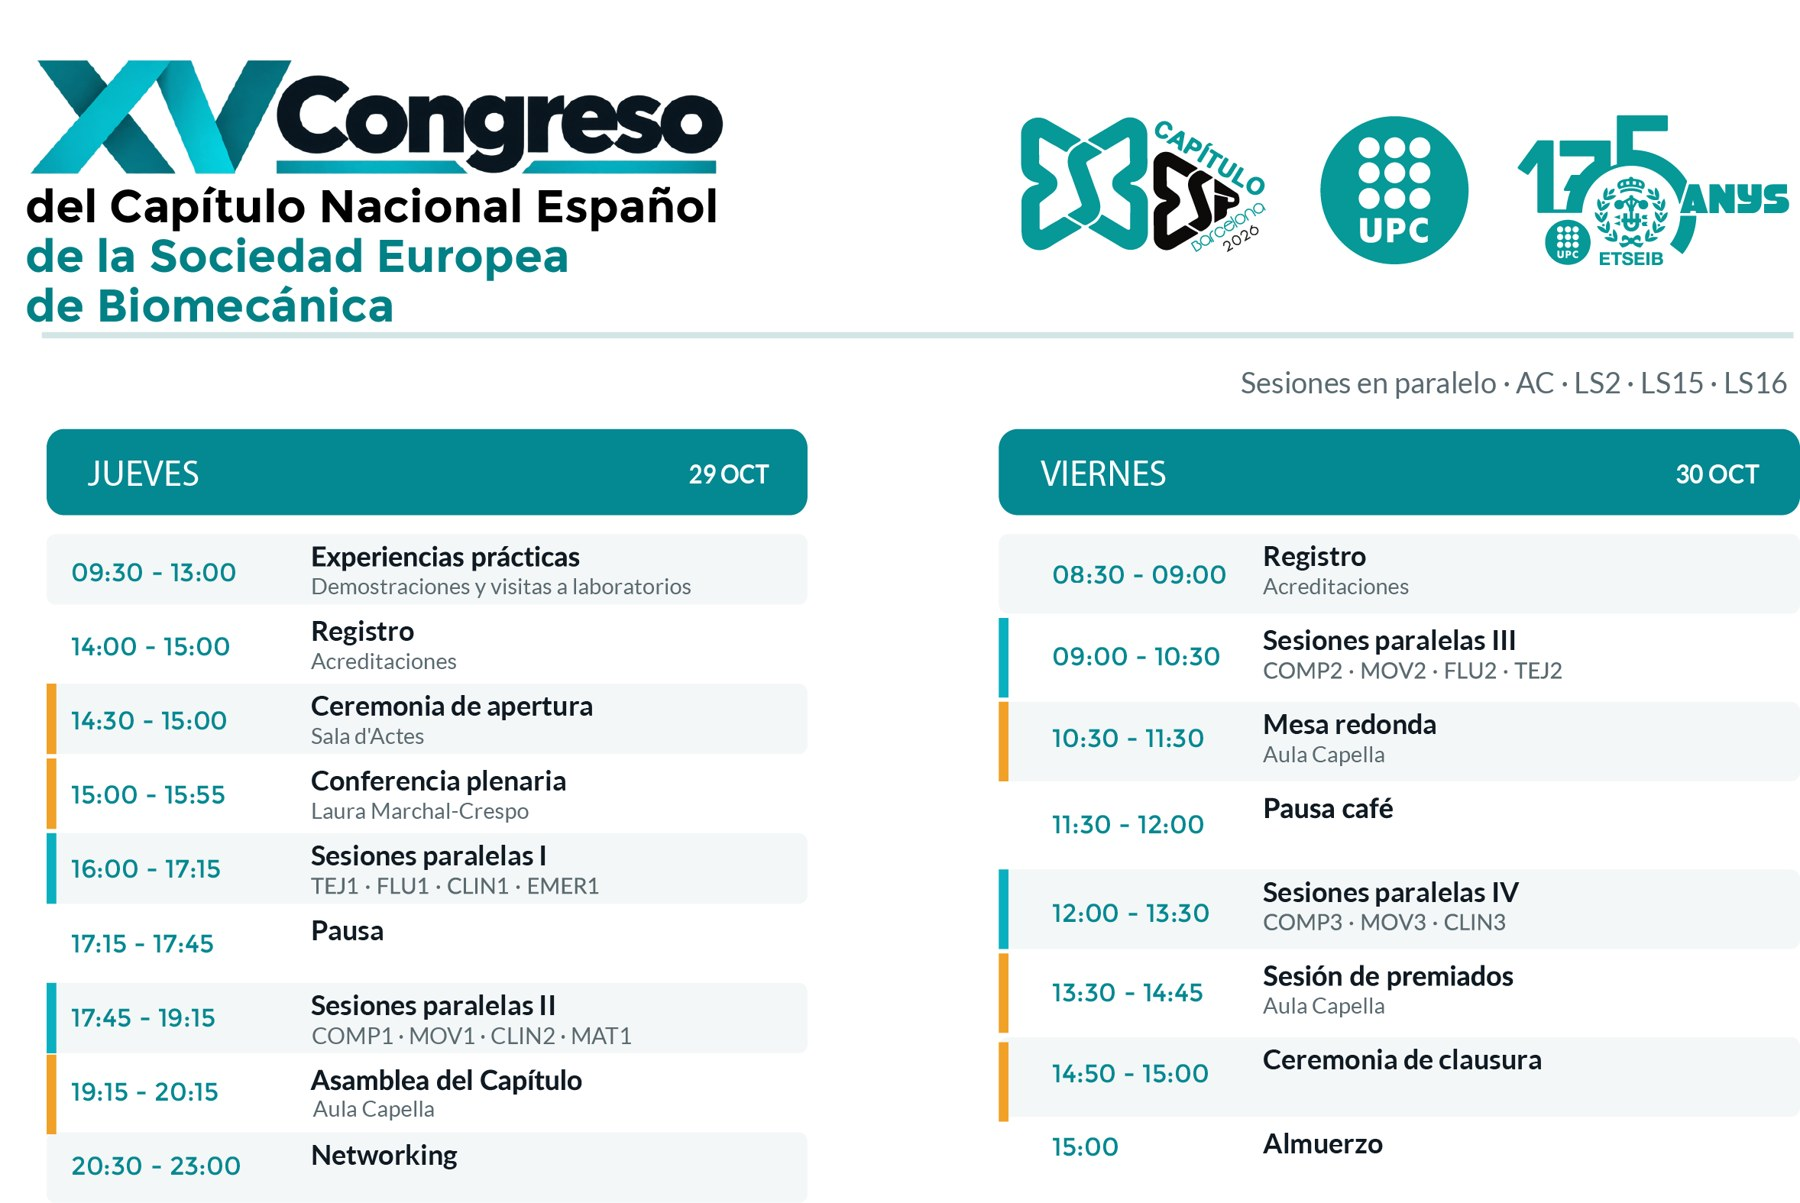
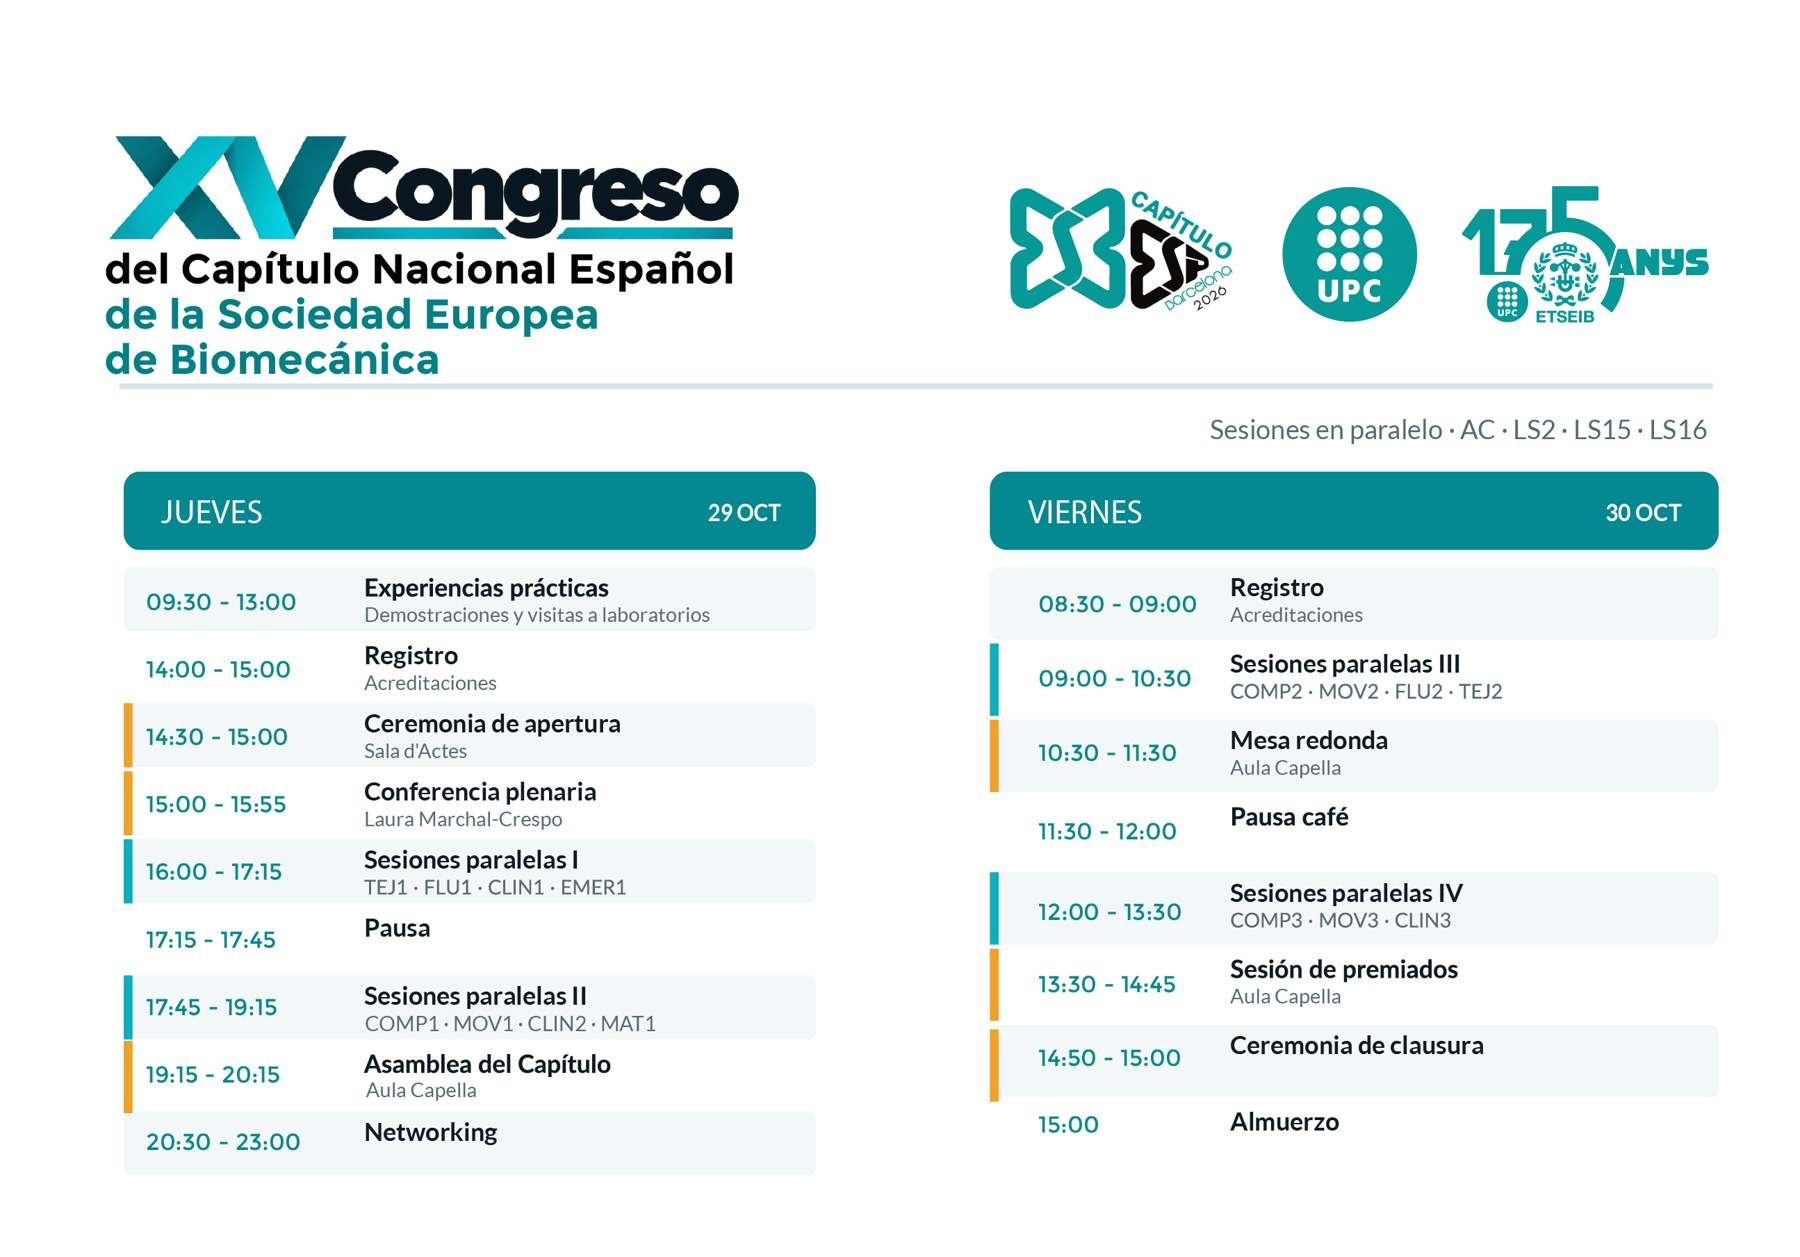
Actualizació  27 oct
cambio estético programa + cambio programa resumisdo con más margen. + cambio de web arriba y abajo más llamativa

diff --git a/index.html b/index.html
@@ -27,6 +27,8 @@
   --live-soft:#FDEAE4;
   --ses-par:#048892;     /* franja de sesiones paralelas (como el programa resumido) */
   --ses-ple:#F1A127;     /* franja de sesiones plenarias en Aula Capella / Sala d'Actes */
+  --ses-gen:#B9DEDB;     /* franja del resto de actividades (registro, visitas, networking…) */
+  --pausa-bg:#F0F8F6;    /* fondo de pausas y almuerzo */
   --f-display:"Montserrat","Avenir Next",system-ui,sans-serif;
   --f-body:"Mulish",system-ui,-apple-system,"Segoe UI",sans-serif;
   --f-mono:ui-monospace,"SFMono-Regular",Menlo,Consolas,monospace;
@@ -54,6 +56,9 @@ header{position:sticky;top:env(safe-area-inset-top,0px);z-index:5;background:var
 h1{font-family:var(--f-display);font-weight:800;font-size:21px;line-height:1.05;margin:0;letter-spacing:-.01em;color:var(--ink)}
 h1 span{color:var(--brand)}
 .brand-sub{font-size:12px;color:var(--muted);line-height:1.3;margin-top:3px}
+.brand-sub a{color:var(--brand);font-weight:700;text-decoration:none;white-space:nowrap;border-bottom:1.5px solid var(--soft)}
+.brand-sub a:hover{border-bottom-color:var(--brand)}
+.btn.web{background:var(--brand-deep);border-color:var(--brand-deep);color:#fff;padding:10px 18px;font-size:14px}
 nav{display:flex;gap:4px;overflow-x:auto;padding-bottom:10px;scrollbar-width:none}
 nav::-webkit-scrollbar{display:none}
 nav button{border:0;background:none;padding:7px 13px;border-radius:99px;font-weight:700;font-size:14px;color:var(--muted);white-space:nowrap;display:flex;align-items:center;gap:6px;font-family:var(--f-display)}
@@ -86,16 +91,20 @@ h3{font-family:var(--f-display)}
 
 /* Programa */
 .day-head{display:flex;justify-content:space-between;align-items:baseline;gap:8px;flex-wrap:wrap}
-.block-title{font-family:var(--f-display);font-weight:700;font-size:13px;color:var(--brand);text-transform:uppercase;letter-spacing:.06em;margin-top:10px}
+.block-title{margin:16px 0 6px;padding:10px 14px;border-radius:10px;background:var(--brand-deep);color:#fff;text-align:center;display:flex;flex-direction:column;gap:2px}
+.block-title b{font-family:var(--f-display);font-weight:800;font-size:14px;text-transform:uppercase;letter-spacing:.12em}
+.block-title span{font-size:13px;opacity:.85;text-wrap:balance}
 .list{display:flex;flex-direction:column;border-top:2px solid var(--brand)}
 .row{display:grid;grid-template-columns:58px 1fr;gap:12px;padding-block:14px;border-bottom:1px solid var(--line)}
-.row.parallel{border-left:4px solid var(--ses-par);border-right:4px solid var(--ses-par);padding-inline:12px}
-.row.plenary,.row.session{border-left:4px solid var(--ses-ple);border-right:4px solid var(--ses-ple);padding-inline:12px}
+.row{border-left:4px solid var(--ses-gen);border-right:4px solid var(--ses-gen);padding-inline:12px}
+.row.parallel{border-left-color:var(--ses-par);border-right-color:var(--ses-par)}
+.row.plenary,.row.session{border-left-color:var(--ses-ple);border-right-color:var(--ses-ple)}
+.row.break{background:var(--pausa-bg)}
 .keys{display:flex;flex-wrap:wrap;gap:6px 16px;font-size:12px;color:var(--muted)}
 .keys span{display:inline-flex;align-items:center;gap:6px}
 .keys i{width:4px;height:14px;border-radius:2px;display:inline-block}
 .day-links{display:flex;flex-wrap:wrap;gap:8px}
-.row.live{background:linear-gradient(90deg,var(--live-soft),transparent 75%);margin-inline:-10px;padding-inline:10px;border-radius:8px}
+.row.live{background:linear-gradient(90deg,var(--live-soft),transparent 75%)}
 .t{font-family:var(--f-mono);font-variant-numeric:tabular-nums;font-size:13px;line-height:1.35;color:var(--brand-deep);font-weight:600}
 .t span{display:block;color:var(--muted);font-size:12px;font-weight:400}
 .body{min-width:0;display:flex;flex-direction:column;gap:6px}
@@ -188,14 +197,13 @@ footer .wrap{padding-block:24px 32px;display:flex;flex-direction:column;gap:14px
 </style>
 </head>
 <body>
-
 <header>
   <div class="wrap">
     <div class="brand">
       <div class="logo-head" id="logo-head"></div>
       <div class="brand-text">
         <h1>XV Congreso <span>ESB</span></h1>
-        <div class="brand-sub">Capítulo Nacional Español de la Sociedad Europea de Biomecánica · 29–30 oct 2026 · ETSEIB Barcelona</div>
+        <div class="brand-sub">Capítulo Nacional Español de la Sociedad Europea de Biomecánica · 29–30 oct 2026 · ETSEIB Barcelona · <a href="https://esdeveniments.upc.edu/151134/detail/xv-congreso-del-capitulo-espanol-de-la-sociedad-europea-de-biomecanica.html" target="_blank" rel="noopener">Web oficial ↗</a></div>
       </div>
     </div>
     <nav role="tablist" aria-label="Secciones">
@@ -226,7 +234,7 @@ footer .wrap{padding-block:24px 32px;display:flex;flex-direction:column;gap:14px
     <div class="logos" id="logos-org"></div>
     <div class="eyebrow">Colaboran</div>
     <div class="logos" id="logos-col"></div>
-    <p class="contact"><a class="btn" href="https://esdeveniments.upc.edu/151134/detail/xv-congreso-del-capitulo-espanol-de-la-sociedad-europea-de-biomecanica.html" target="_blank" rel="noopener">Web oficial del congreso ↗</a></p>
+    <p class="contact"><a class="btn web" href="https://esdeveniments.upc.edu/151134/detail/xv-congreso-del-capitulo-espanol-de-la-sociedad-europea-de-biomecanica.html" target="_blank" rel="noopener">Web oficial del congreso ↗</a></p>
     <p class="contact">Contacto: <span>capitulo.esb@event.upc.edu</span></p>
   </div>
 </footer>
@@ -313,7 +321,7 @@ function rowHTML(day,it){
     if (it.ext) btns.push(extBtn(it.ext));
     if (btns.length) extra += `<div class="actions">${btns.join("")}</div>`;
   }
-  return `${it.block?`<div class="block-title">${esc(it.block)}</div>`:""}<div class="row ${it.kind}${lv?" live":""}">
+  return `${it.block?(()=>{const [a,...r]=it.block.split(" · ");return `<div class="block-title"><b>${esc(a)}</b>${r.length?`<span>${esc(r.join(" · "))}</span>`:""}</div>`})():""}<div class="row ${it.kind}${lv?" live":""}">
     <div class="t">${it.start}${it.open?"":`<span>${it.end}</span>`}</div>
     <div class="body">
       <div class="kind">${KIND[it.kind]}${lv?'<span class="now-pill"><span class="dot"></span>Ahora</span>':""}</div>
@@ -324,7 +332,7 @@ function renderDay(day){
   const d = PROGRAM[day];
   $("#v-"+day).innerHTML = `<div class="day-head"><h2>${d.label}</h2><p class="sub">${d.date}</p></div>
     <div class="day-links"><a class="btn" href="programa-resumen.jpg" target="_blank" rel="noopener">${PDFI}Programa resumido</a></div>
-    <div class="keys"><span><i style="background:var(--ses-par)"></i>Sesiones paralelas</span><span><i style="background:var(--ses-ple)"></i>Sesiones plenarias y ceremonias</span></div>
+    <div class="keys"><span><i style="background:var(--ses-par)"></i>Sesiones paralelas</span><span><i style="background:var(--ses-ple)"></i>Sesiones plenarias y ceremonias</span><span><i style="background:var(--ses-gen)"></i>Otras actividades</span><span><i style="background:var(--pausa-bg);width:14px;border:1px solid var(--ses-gen)"></i>Pausas y almuerzo</span></div>
     <div class="list">${d.items.map(it=>rowHTML(day,it)).join("")}</div>`;
 }
 

diff --git a/programa.js b/programa.js
@@ -80,11 +80,11 @@ const I = (id,start,end,kind,title,o={}) => Object.assign({id,start,end,kind,tit
 
 const PROGRAM = {
  jueves:{ label:"Jueves 29", date:"29 de octubre de 2026", items:[
-  I("j0","09:30","10:00","general","Recepción de los participantes",{block:"Mañana · Experiencias prácticas y demostraciones",room:"hall",meta:"Punto de encuentro: Hall de entrada de la ETSEIB"}),
+  I("j0","09:30","10:00","general","Recepción de los participantes",{block:"Experiencias prácticas · Mañana · Demostraciones y visitas a laboratorios",room:"hall",meta:"Punto de encuentro: Hall de entrada de la ETSEIB"}),
   I("j1","10:00","11:15","general","LABORA y Able Human Motion",{room:"hall",meta:"Presentación del laboratorio LABORA y demostración práctica del exoesqueleto de Able Human Motion. Punto de encuentro: Hall de entrada de la ETSEIB; desde allí os guiaremos."}),
   I("j2","11:30","12:00","general","IRIS y Xartec Salut",{room:"hall",meta:"Presentación del IRIS-UPC y de la red Xartec Salut. Punto de encuentro: Hall de entrada de la ETSEIB; desde allí os guiaremos."}),
   I("j3","12:00","13:00","general","Visita a los laboratorios BIOMEC, BIOART e IOC",{room:"hall",meta:"Visitas rotativas en tres grupos. Punto de encuentro: Hall de entrada de la ETSEIB; desde allí os guiaremos."}),
-  I("j4","14:00","15:00","general","Registro de participantes",{block:"Tarde · Sesión inaugural e inicio del congreso",room:"registro"}),
+  I("j4","14:00","15:00","general","Registro de participantes",{block:"Inauguración del congreso · Tarde · Apertura, conferencia plenaria y sesiones paralelas",room:"registro"}),
   I("j5","14:30","15:00","session","Ceremonia de apertura",{tracks:[T("APER","Intervienen","actes","",`
 |Núria Montserrat Pulido|Honorable Consejera de Investigación y Universidades de la Generalitat de Catalunya
 |Jordi Romeu Garbi|Vicerrector de Política de Personal Docente e Investigador (UPC)
@@ -154,7 +154,7 @@ const PROGRAM = {
   I("j11","20:30","23:00","general","Encuentro de networking",{ext:"polo"})
  ]},
  viernes:{ label:"Viernes 30", date:"30 de octubre de 2026", items:[
-  I("v0","08:30","09:00","general","Registro de participantes",{room:"registro"}),
+  I("v0","08:30","09:00","general","Registro de participantes",{block:"Sesiones científicas y clausura · Mañana · Sesiones paralelas, mesa redonda, premios y clausura",room:"registro"}),
   I("v1","09:00","10:30","parallel","Sesiones científicas paralelas III",{tracks:[
    T("COMP2","Modelización musculoesquelética, simulación predictiva y gemelos digitales","capella","Moderador: Simone Tassani",`
 139919|Personalizing motor control in predictive gait simulations of children with cerebral palsy using muscle synergies|Marc Verdaguer; Míriam Febrer-Nafría
